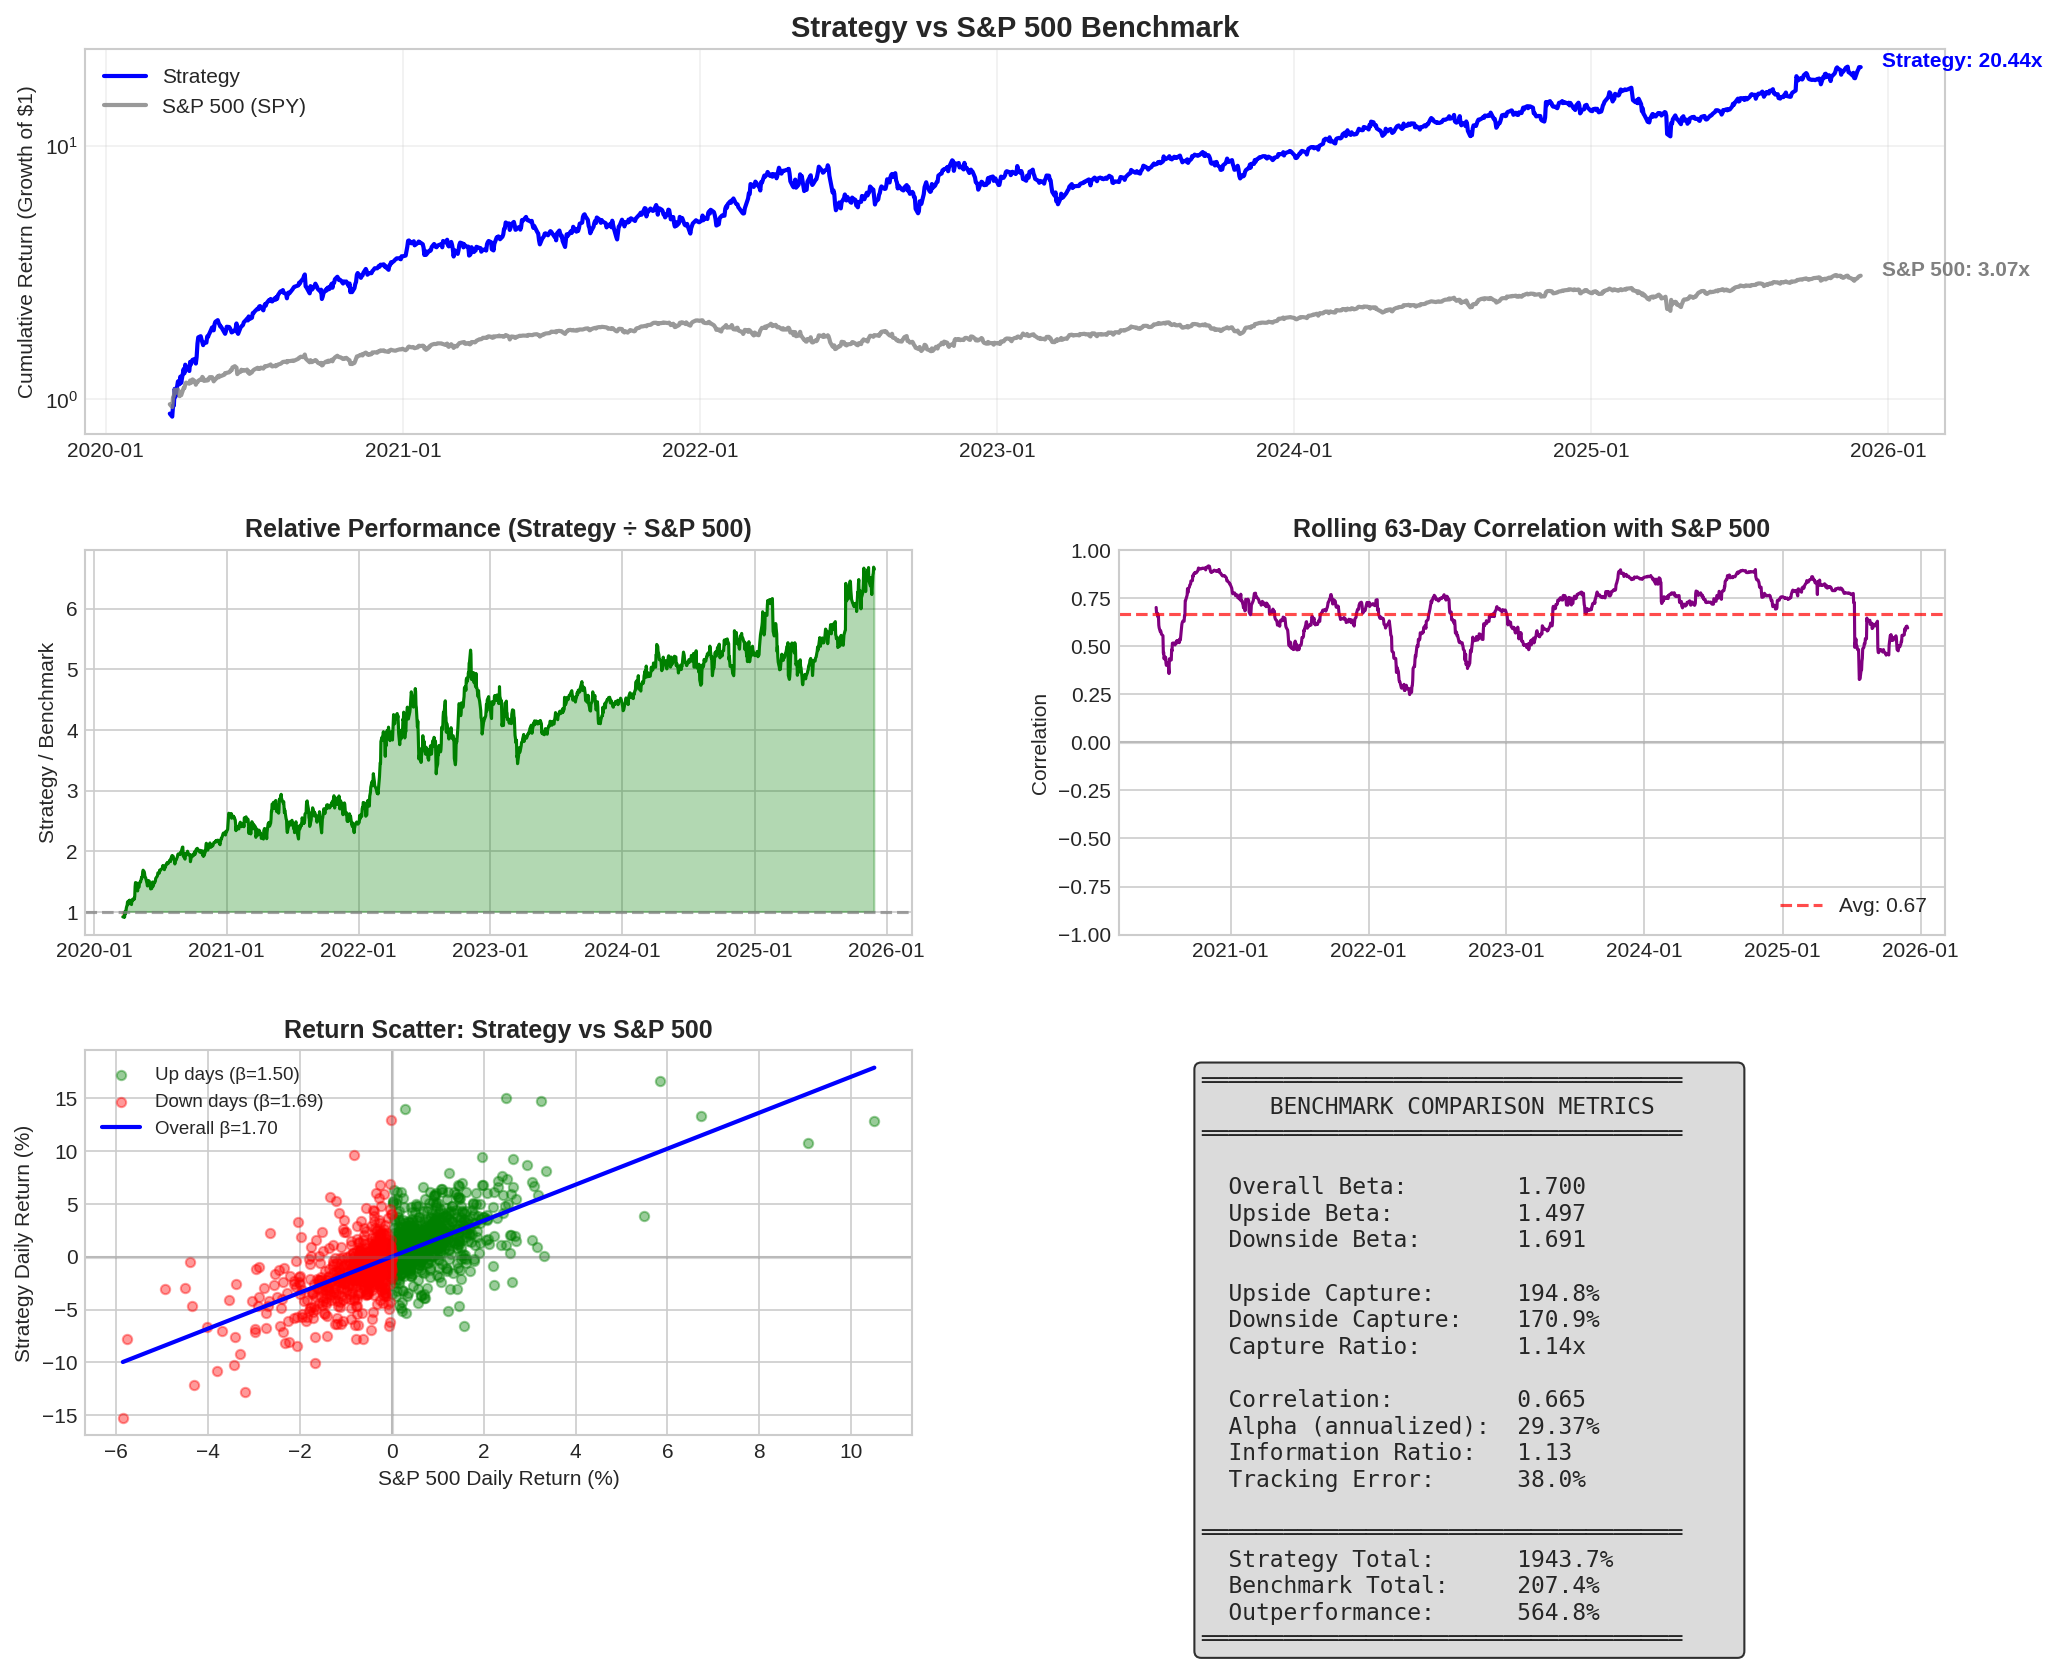
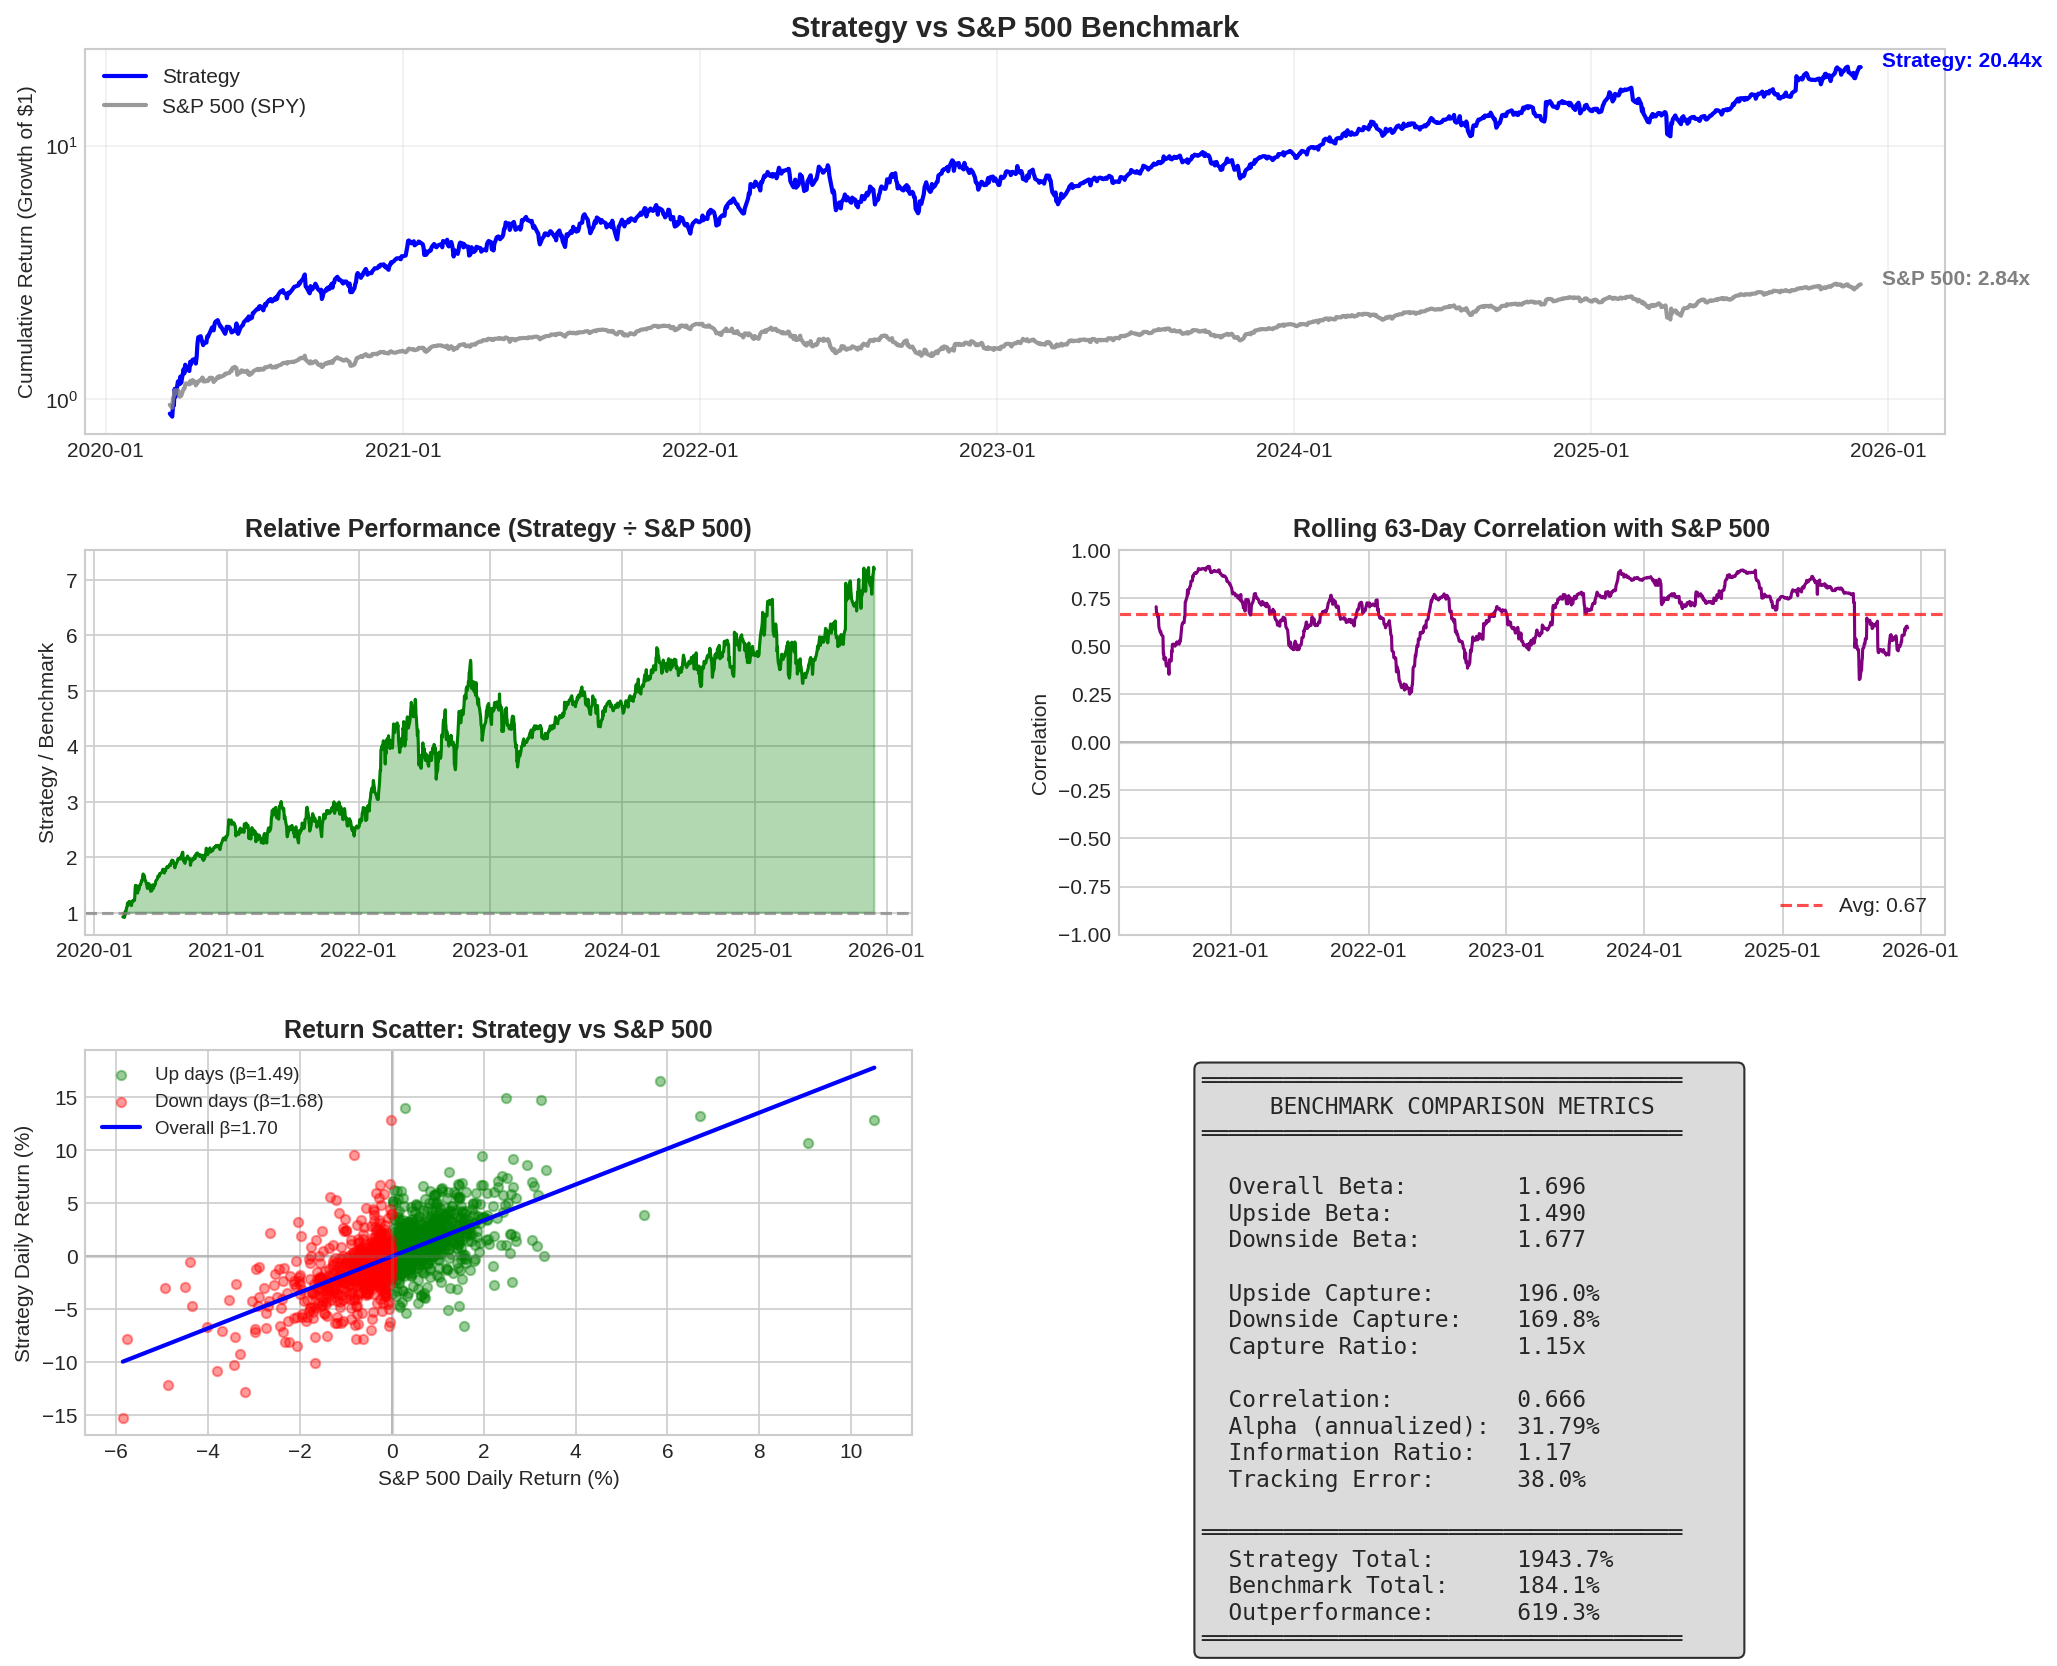
Use correct SPY 10-year close prices for benchmark comparison
- Update loader.get_spy() to use spy_10y_close.csv instead of SPY.parquet
- The parquet file had incorrect prices causing inflated benchmark returns
  (showed 207% instead of correct 184% for backtest period)

Corrected SPY benchmark:
- Start price (2020-03-19): $240.51 (was incorrectly $222.30)
- End price (2025-11-28): $683.39
- Total return: 184.1% (2.84x growth)
- S&P 500 Sharpe: 0.96 (was incorrectly 1.04)

Strategy still significantly outperforms:
- Strategy return: 1943% vs SPY 184%
- Strategy Sharpe: 1.31 vs SPY 0.96
- Alpha: 31.79% annualized

diff --git a/src/data/loader.py b/src/data/loader.py
@@ -314,8 +314,34 @@ class DataLoader:
         start_date: Optional[Union[str, datetime]] = None,
         end_date: Optional[Union[str, datetime]] = None
     ) -> Optional[pd.DataFrame]:
-        """Convenience method to load SPY data."""
-        return self.load_reference_data('SPY', start_date, end_date)
+        """Convenience method to load SPY data from the 10-year CSV file."""
+        # Use the correct 10-year SPY close prices CSV
+        spy_csv_path = self.data_dir / "spy_10y_close.csv"
+
+        if spy_csv_path.exists():
+            # Parse the CSV (skip first 2 header rows)
+            df = pd.read_csv(spy_csv_path, skiprows=2)
+            df.columns = ['date', 'close']
+            df['date'] = pd.to_datetime(df['date'])
+            df = df.set_index('date')
+            df = df.sort_index()
+
+            # Filter by date range
+            if start_date is not None:
+                if isinstance(start_date, str):
+                    start_date = pd.to_datetime(start_date)
+                df = df[df.index >= start_date]
+
+            if end_date is not None:
+                if isinstance(end_date, str):
+                    end_date = pd.to_datetime(end_date)
+                df = df[df.index <= end_date]
+
+            return df
+        else:
+            # Fall back to parquet if CSV not available
+            logger.warning("spy_10y_close.csv not found, falling back to SPY.parquet")
+            return self.load_reference_data('SPY', start_date, end_date)
 
     def calculate_dividend_metrics(self, symbol: str) -> Optional[Dict]:
         """
